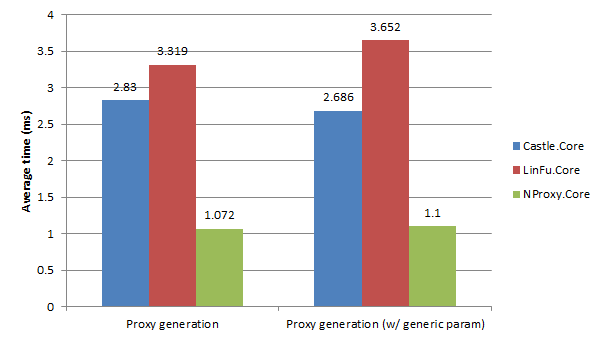
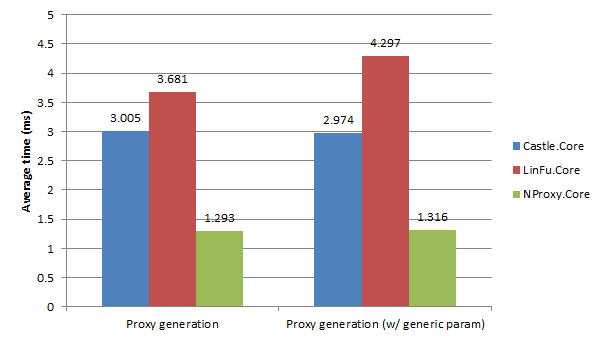
Updated benchmarks.

diff --git a/Documentation/Benchmark_20140408_095629.md b/Documentation/Benchmark_20140408_095629.md
@@ -1,0 +1,22 @@
+| Type      | Version | Scenario                             | Iterations | Total time in ms | Average time in µs |
+|:----------|--------:|:-------------------------------------|-----------:|-----------------:|-------------------:|
+|Castle.Core|    v 3.2|Method invocation                     |    10000000|           839.424|               0.084|
+|Castle.Core|    v 3.2|Method invocation (w/ generic param)  |    10000000|         13334.859|               1.333|
+|Castle.Core|    v 3.2|Proxy generation                      |        1000|          3004.513|            3004.513|
+|Castle.Core|    v 3.2|Proxy generation (w/ generic param)   |        1000|          2974.419|            2974.419|
+|Castle.Core|    v 3.2|Proxy instantiation                   |     1000000|          3799.731|               3.800|
+|Castle.Core|    v 3.2|Proxy instantiation (w/ generic param)|     1000000|          3740.304|               3.740|
+|LinFu.Core |    v 2.3|Method invocation                     |    10000000|         14995.186|               1.500|
+|LinFu.Core |    v 2.3|Method invocation (w/ generic param)  |    10000000|         53609.117|               5.361|
+|LinFu.Core |    v 2.3|Proxy generation                      |        1000|          3681.494|            3681.494|
+|LinFu.Core |    v 2.3|Proxy generation (w/ generic param)   |        1000|          4296.680|            4296.680|
+|LinFu.Core |    v 2.3|Proxy instantiation                   |     1000000|          1176.299|               1.176|
+|LinFu.Core |    v 2.3|Proxy instantiation (w/ generic param)|     1000000|          1172.438|               1.172|
+|NProxy.Core|    v 2.3|Method invocation                     |    10000000|           771.291|               0.077|
+|NProxy.Core|    v 2.3|Method invocation (w/ generic param)  |    10000000|           962.044|               0.096|
+|NProxy.Core|    v 2.3|Proxy generation                      |        1000|          1293.350|            1293.350|
+|NProxy.Core|    v 2.3|Proxy generation (w/ generic param)   |        1000|          1316.435|            1316.435|
+|NProxy.Core|    v 2.3|Proxy instantiation                   |     1000000|          1439.808|               1.440|
+|NProxy.Core|    v 2.3|Proxy instantiation (w/ generic param)|     1000000|          1348.465|               1.348|
+|Regular    |      n/a|Method invocation                     |   100000000|           281.331|               0.003|
+|Regular    |      n/a|Method invocation (w/ generic param)  |   100000000|          1150.645|               0.012|

diff --git a/Documentation/BENCHMARKS.md b/Documentation/BENCHMARKS.md
@@ -38,7 +38,7 @@ the values in microseconds for this scenario.
 
 ![Method invocation performance](https://raw.github.com/mtamme/NProxy/master/Documentation/MethodInvocation.png "Method invocation performance")
 
-Details to the performed tests can be found [here](https://github.com/mtamme/NProxy/tree/master/Documentation/Benchmark_20140221_094332.md).
+Details to the performed tests can be found [here](https://github.com/mtamme/NProxy/tree/master/Documentation/Benchmark_20140408_095629.md).
 All tests have been performed under Microsoft .NET 4.0.30319 and can be found [here](https://github.com/mtamme/NProxy/tree/master/Source/Test/NProxy.Core.Benchmark/).
 
 ## Conclusion
